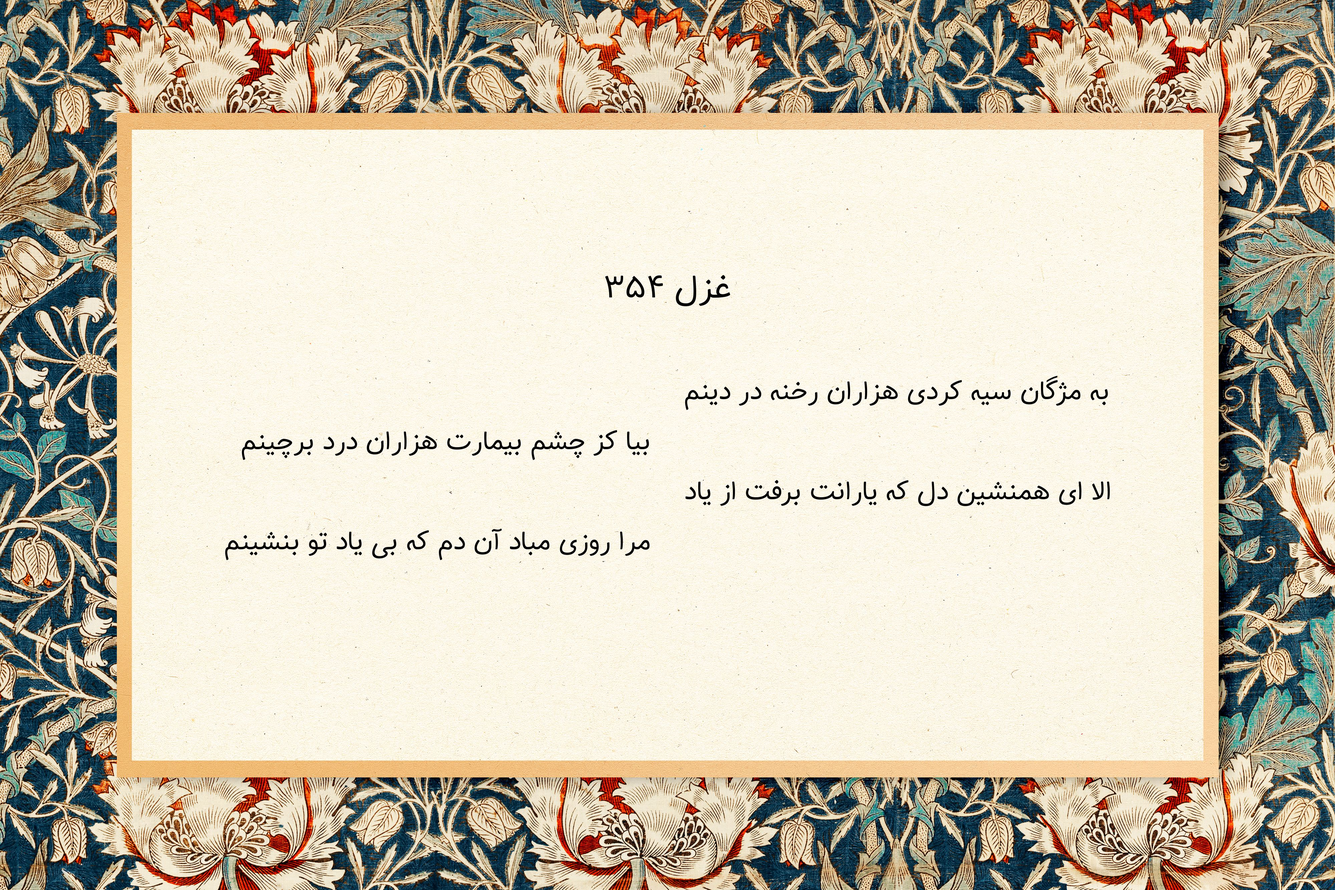
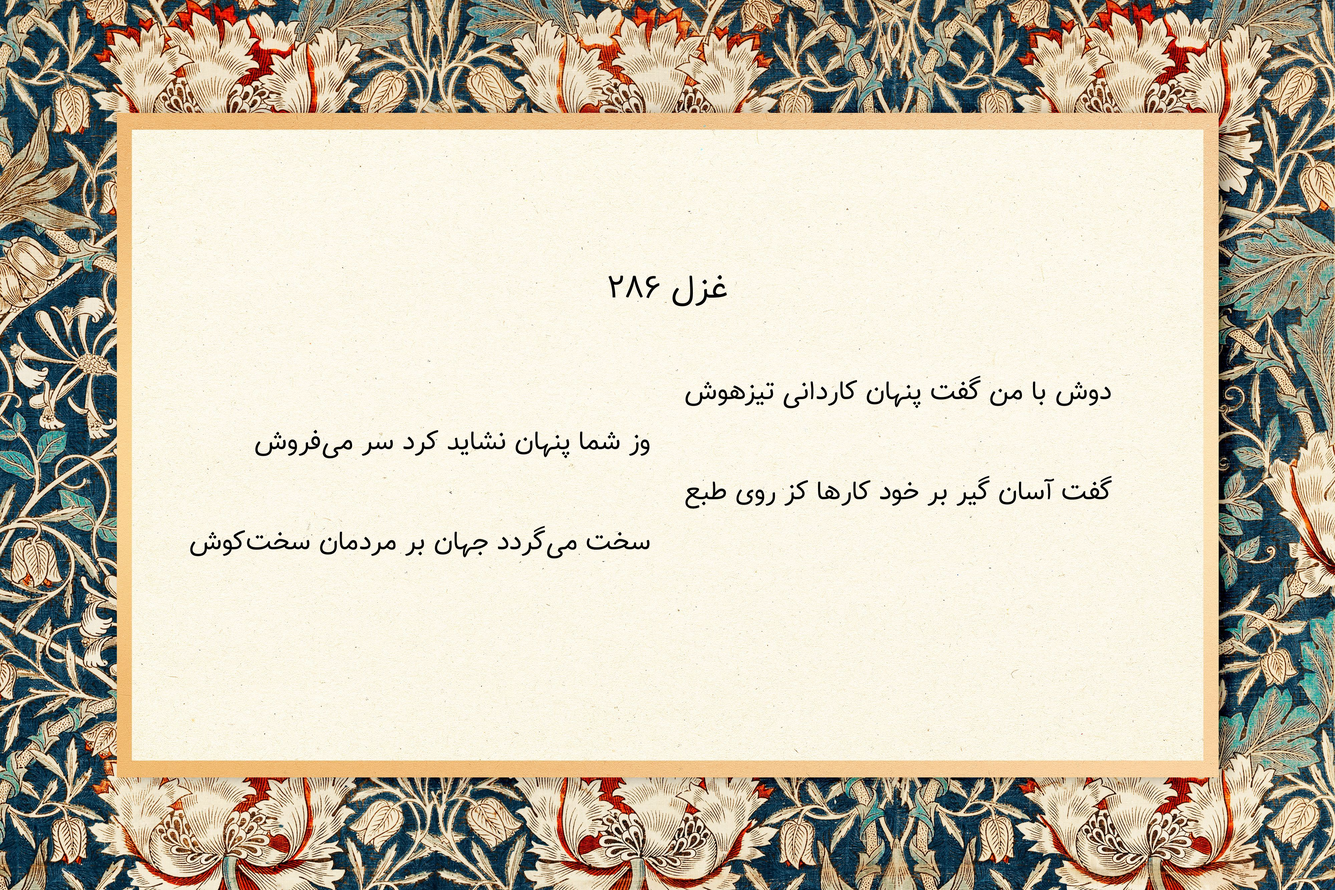
Adding a sonnet section without dependence on horoscope and correcting the manufacturer of images

diff --git a/image.py b/image.py
@@ -1,52 +1,41 @@
 from PIL import Image, ImageDraw, ImageFont
 import arabic_reshaper
+from fall import get_en_num
 
 
-class FallHafez():
+def get_text_size(text, font):
+    return font.getbbox(arabic_reshaper.reshape(text))[2]
+
+
+def make_image(file):
     BLACK = (0, 0, 0)
+    font = ImageFont.truetype(f'src/font/Tanha.ttf', 80)
+    title = ImageFont.truetype(f'src/font/Tanha.ttf', 100)
 
-    def __init__(self, font:str) -> None:
-        self.font = ImageFont.truetype(f'src/font/{font}.ttf', 80)
-        self.title = ImageFont.truetype(f'src/font/{font}.ttf', 100)
+    text = str(open(f'hafez/{file}', 'r').read()).split('\n')[:4]
 
-
-    def get_text_size(self, text, font):
-        return font.getbbox(arabic_reshaper.reshape(text))[2]
+    image = Image.open('src/images/bg.jpg')
+    TEXT = ImageDraw.Draw(image)
     
+    _, _, length, width = image.getbbox()
+    half_width, half_length = int(width/2), int(length/2)
 
-    def get_title(self, text):
-        text = text[2:]
-        english_numbers = "0123456789"
-        persian_numbers = "۰۱۲۳۴۵۶۷۸۹"
-        translation_table = str.maketrans(english_numbers, persian_numbers)
-        return arabic_reshaper.reshape(f"غزل {text.translate(translation_table)}")
+    title_text = arabic_reshaper.reshape(f"غزل {get_en_num(file)}")
 
+    # title
+    TEXT.text((half_length - int(get_text_size(title_text, title)/2), int(width/3)-100), title_text, BLACK, font=title)
 
-    def make_image(self, file):
-        self.text = str(open(f'hafez/{file}', 'r').read()).split('\n')[:4]
-        image = Image.open('src/images/bg.jpg')
-        _, _, length, width = image.getbbox()
+    # The first bit
+    TEXT.text((half_length + 50, half_width-220), arabic_reshaper.reshape(text[0]), BLACK, font=font)
+    TEXT.text((half_length - get_text_size(text[1], font) - 50, half_width-70), arabic_reshaper.reshape(text[1]), BLACK, font=font)
 
-        TEXT = ImageDraw.Draw(image)
-
-        title_text = self.get_title(file)
-
-        half_width, half_length = int(width/2), int(length/2)
-
-        # title
-        TEXT.text((half_length - int(self.get_text_size(title_text, self.title)/2), int(width/3)-100), title_text, self.BLACK, font=self.title)
+    # The second bit
+    TEXT.text((half_length + 50, half_width+80), arabic_reshaper.reshape(text[2]), BLACK, font=font)
+    TEXT.text((half_length - get_text_size(text[3], font) - 50, half_width+230), arabic_reshaper.reshape(text[3]), BLACK, font=font)
 
 
-        TEXT.text((half_length + 50, half_width-220), arabic_reshaper.reshape(self.text[0]), self.BLACK, font=self.font)
-
-        TEXT.text((half_length - self.get_text_size(self.text[1], self.font) - 50, half_width-70), arabic_reshaper.reshape(self.text[1]), self.BLACK, font=self.font)
-
-
-        TEXT.text((half_length + 50, half_width+80), arabic_reshaper.reshape(self.text[2]), self.BLACK, font=self.font)
-
-        TEXT.text((half_length - self.get_text_size(self.text[3], self.font) - 50, half_width+230), arabic_reshaper.reshape(self.text[3]), self.BLACK, font=self.font)
+    image.save('image.jpg', quality=80)
+    return 'image.jpg'
 
 
-        image.save('image.jpg', quality=80)
-        return 'image.jpg'
-    
+make_image('sh286')

diff --git a/main.py b/main.py
@@ -1,9 +1,10 @@
 import telebot
 import logging
+import re
 from telebot.types import InlineKeyboardMarkup, InlineKeyboardButton
 from decouple import config
-from fall import show_fall
-from image import FallHafez
+from fall import show_poem, get_divination
+from image import make_image
 from flask import Flask, request
 
 
@@ -43,6 +44,7 @@ def start(msg):
     text = """
 سلام
 برای اینکه فال خود را بگیرید دکمه ی زیر را لمس کنید.
+و اگر غزل خاصی مد نظرتان است، شماره ی آن را تایپ کنید
 
 @this_hafez_bot
 @PhiloLearn
@@ -64,22 +66,45 @@ def get_fallow_markup():
 @bot.callback_query_handler(func=lambda call: True)
 def callback_query(call):
     if call.data == "get_fall":
-        fall = show_fall()
+        omen = get_divination()
+        text_of_divination = show_poem(omen)
         markup = InlineKeyboardMarkup()
-        markup.add(InlineKeyboardButton("تصویر فالم رو بده!", callback_data=f"get_pic-{fall[1]}"))
+        markup.add(InlineKeyboardButton("تصویر فالم رو بده!", callback_data=f"get_pic-{omen}"))
 
-        bot.send_message(call.from_user.id, fall[0], reply_markup=markup)
+        bot.send_message(call.from_user.id, text_of_divination, reply_markup=markup)
 
 
     elif str(call.data).split('-')[0] == "get_pic":
-        fall = str(call.data).split('-')[1]
+        file_name = str(call.data).split('-')[1]
 
-        tanha = FallHafez('Tanha').make_image(fall)
-        pic = open(tanha, 'rb')
+        poem = make_image(file_name)
+        pic = open(poem, 'rb')
 
         text = '@this_hafez_bot\n@PhiloLearn'
 
         bot.send_photo(call.from_user.id, pic, caption=text, reply_markup=get_fallow_markup())
+
+
+@bot.message_handler(content_types=['text'])
+def get_poem(msg):
+    poem = re.findall(r"\d+", str(msg.text))
+
+    if poem != []:
+        poem = int(poem[0])
+
+        if poem in range(1, 496):
+            text_of_poem = show_poem(f"sh{poem}")
+
+            markup = InlineKeyboardMarkup()
+            markup.add(InlineKeyboardButton("تصویر بده!", callback_data=f"get_pic-sh{poem}"))
+
+            bot.send_message(msg.chat.id, text_of_poem, reply_markup=markup)
+        
+        else:
+            bot.send_message(msg.chat.id, 'این غزل وجود ندارد!')
+
+    else:
+        bot.send_message(msg.chat.id, 'لطفا یک عدد معتبر از ۱ تا ۴۹۵ وارد کنید...')
 
 
 if DEBUG:

diff --git a/fall.py b/fall.py
@@ -3,28 +3,27 @@ from random import choice
 import arabic_reshaper
 
 
-def get_fall():
+def get_divination():
     return choice(os.listdir('hafez'))
 
 
-def get_title(text):
-        text = text[2:]
-        english_numbers = "0123456789"
-        persian_numbers = "۰۱۲۳۴۵۶۷۸۹"
-        translation_table = str.maketrans(english_numbers, persian_numbers)
-        return arabic_reshaper.reshape(f"غزل {text.translate(translation_table)}")
+def get_en_num(text):
+    text = text[2:]
+    english_numbers = "0123456789"
+    persian_numbers = "۰۱۲۳۴۵۶۷۸۹"
+    translation_table = str.maketrans(english_numbers, persian_numbers)
+    return text.translate(translation_table)
 
 
-def show_fall():
-    fall = get_fall()
-    text = open(f"hafez/{fall}", 'r').read()
+def show_poem(divination):
+    text = open(f"hafez/{divination}", 'r').read()
 
     text = f"""
-{get_title(fall)}
+غزل {get_en_num(divination)}
 
 {text}
 
 @this_hafez_bot
 """
 
-    return text, fall
+    return text
